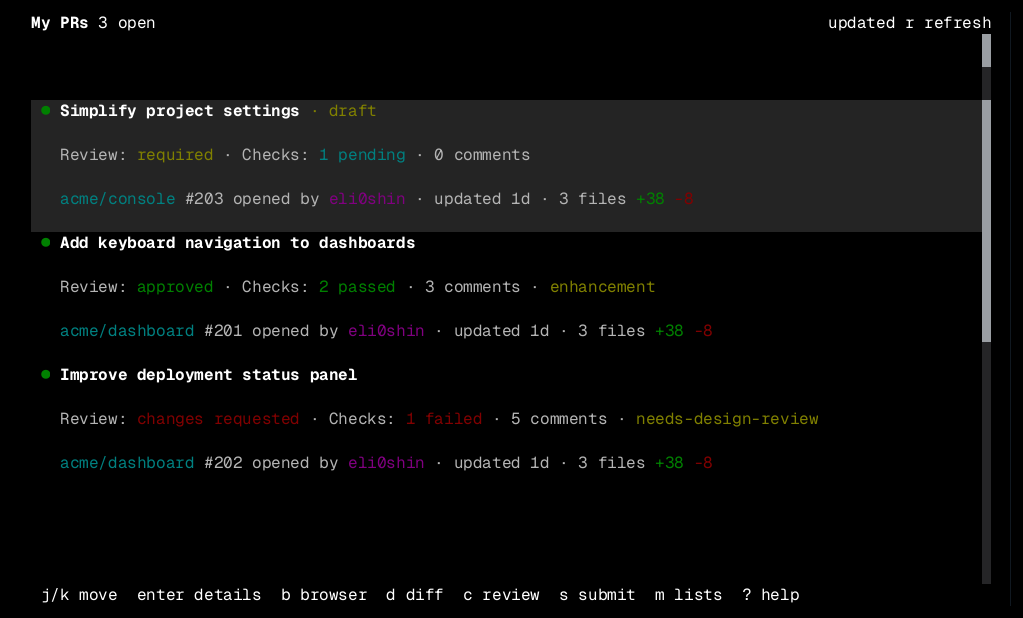
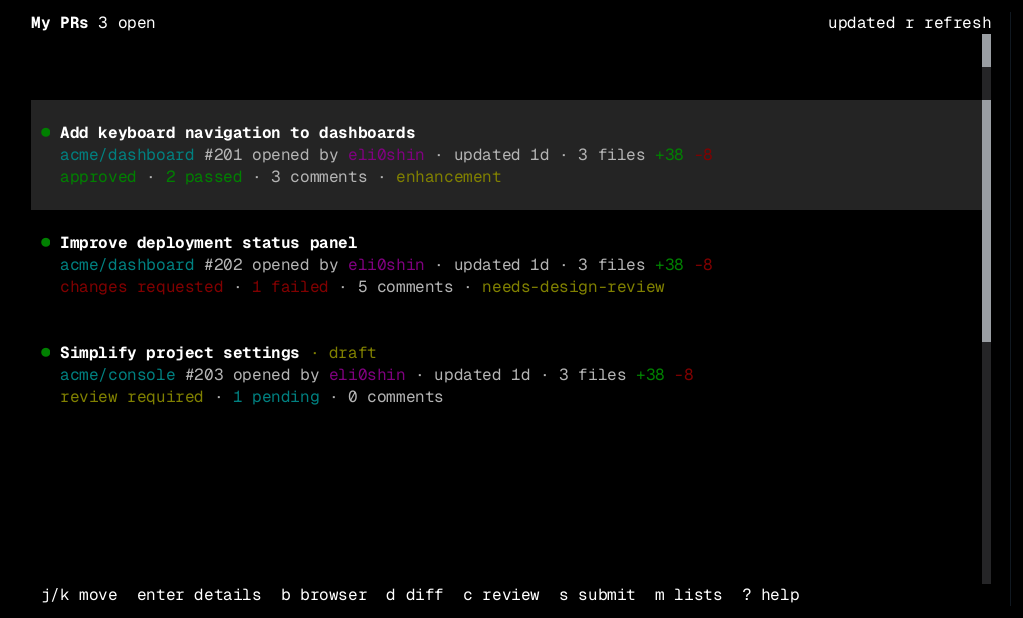
Tighten PR row spacing and show concise status

diff --git a/src/app.tsx b/src/app.tsx
@@ -625,22 +625,24 @@ function ReviewQueueContent({
     () =>
       queue.map((pullRequest) => {
         const width = terminal.width - 6;
-        const metadataHeight = Math.max(
-          1,
-          renderedRows(rowMetadataText(pullRequest), width) + 1
+        const titleHeight = charWrappedRows(
+          `● ${pullRequest.title}${list === 'authored' && pullRequest.isDraft ? ' · draft' : ''}`,
+          width
         );
-        const statusHeight = Math.max(
-          1,
-          renderedRows(rowStatusText(pullRequest), width) + 1
+        const statusHeight = charWrappedRows(rowStatusText(pullRequest), width);
+        const metadataHeight = charWrappedRows(
+          rowMetadataText(pullRequest),
+          width
         );
         return {
           pullRequest,
-          metadataHeight,
+          titleHeight,
           statusHeight,
-          height: 2 + statusHeight + metadataHeight,
+          metadataHeight,
+          height: 2 + titleHeight + statusHeight + metadataHeight,
         };
       }),
-    [queue, terminal.width]
+    [queue, list, terminal.width]
   );
   const keepCursorVisible = useCallback(
     (viewport: ScrollBoxRenderable | null = queueViewportRef.current) => {
@@ -744,13 +746,17 @@ function ReviewQueueContent({
         contentOptions={{ flexDirection: 'column' }}
       >
         {rows.map(
-          ({ pullRequest, height, metadataHeight, statusHeight }, index) => (
+          (
+            { pullRequest, height, titleHeight, metadataHeight, statusHeight },
+            index
+          ) => (
             <ReviewQueueRow
               key={pullRequest.url}
               id={`review-queue-row-${index}`}
               pullRequest={pullRequest}
               list={list}
               rowHeight={height}
+              titleHeight={titleHeight}
               metadataHeight={metadataHeight}
               statusHeight={statusHeight}
               underCursor={index === cursorPosition}
@@ -772,6 +778,7 @@ function ReviewQueueRow({
   pullRequest,
   list,
   rowHeight,
+  titleHeight,
   metadataHeight,
   statusHeight,
   underCursor,
@@ -781,6 +788,7 @@ function ReviewQueueRow({
   readonly pullRequest: PullRequestSummary;
   readonly list: PullRequestList;
   readonly rowHeight: number;
+  readonly titleHeight: number;
   readonly metadataHeight: number;
   readonly statusHeight: number;
   readonly underCursor: boolean;
@@ -795,36 +803,29 @@ function ReviewQueueRow({
       height={rowHeight}
       paddingLeft={1}
       paddingRight={1}
+      paddingTop={1}
+      paddingBottom={1}
       flexDirection="column"
-      justifyContent="center"
       backgroundColor={underCursor ? theme?.subtleSurface : undefined}
     >
-      <text height={2} flexShrink={0} overflow="hidden">
+      <text
+        height={titleHeight}
+        flexShrink={0}
+        wrapMode="char"
+        overflow="hidden"
+      >
         <span fg={theme?.success}>● </span>
         <strong>{pullRequest.title}</strong>
         {list === 'authored' && pullRequest.isDraft ? (
           <span fg={theme?.warning}> · draft</span>
         ) : null}
       </text>
-      <text height={statusHeight} flexShrink={0} overflow="hidden">
-        {'  '}
-        <span fg={theme?.textMuted}>Review: </span>
-        <span fg={reviewStateColor(decision || 'none', theme)}>
-          {reviewDecisionLabel(decision)}
-        </span>
-        <span fg={theme?.textMuted}> · Checks: </span>
-        <span fg={theme?.[checks.tone]}>{checks.label}</span>
-        <span fg={theme?.textMuted}>
-          {' '}
-          · {pullRequest.commentsCount}{' '}
-          {pullRequest.commentsCount === 1 ? 'comment' : 'comments'}
-          {pullRequest.labels.length === 0 ? '' : ' · '}
-        </span>
-        {pullRequest.labels.length === 0 ? null : (
-          <span fg={theme?.warning}>{pullRequest.labels.join('  ')}</span>
-        )}
-      </text>
-      <text height={metadataHeight} flexShrink={0} overflow="hidden">
+      <text
+        height={metadataHeight}
+        flexShrink={0}
+        wrapMode="char"
+        overflow="hidden"
+      >
         {'  '}
         <span fg={theme?.info}>{pullRequest.repository}</span>
         <span fg={theme?.textMuted}> #{pullRequest.number} opened by </span>
@@ -836,6 +837,28 @@ function ReviewQueueRow({
         </span>
         <span fg={theme?.success}>+{pullRequest.additions}</span>{' '}
         <span fg={theme?.error}>-{pullRequest.deletions}</span>
+      </text>
+      <text
+        height={statusHeight}
+        flexShrink={0}
+        wrapMode="char"
+        overflow="hidden"
+      >
+        {'  '}
+        <span fg={reviewStateColor(decision || 'none', theme)}>
+          {reviewDecisionLabel(decision)}
+        </span>
+        <span fg={theme?.textMuted}> · </span>
+        <span fg={theme?.[checks.tone]}>{checks.label}</span>
+        <span fg={theme?.textMuted}>
+          {' '}
+          · {pullRequest.commentsCount}{' '}
+          {pullRequest.commentsCount === 1 ? 'comment' : 'comments'}
+          {pullRequest.labels.length === 0 ? '' : ' · '}
+        </span>
+        {pullRequest.labels.length === 0 ? null : (
+          <span fg={theme?.warning}>{pullRequest.labels.join('  ')}</span>
+        )}
       </text>
     </box>
   );
@@ -1767,6 +1790,25 @@ function herdrFailureMessage(failure: HerdrFailure): string {
   return message;
 }
 
+const graphemes = new Intl.Segmenter(undefined, { granularity: 'grapheme' });
+
+function charWrappedRows(message: string, renderedWidth: number): number {
+  const width = Math.max(renderedWidth, 1);
+  return message.split('\n').reduce((total, line) => {
+    let rows = 1;
+    let column = 0;
+    for (const { segment } of graphemes.segment(line)) {
+      const glyphWidth = Bun.stringWidth(segment === '\t' ? '  ' : segment);
+      if (column > 0 && column + glyphWidth > width) {
+        rows += 1;
+        column = 0;
+      }
+      column += glyphWidth;
+    }
+    return total + rows;
+  }, 0);
+}
+
 function renderedRows(message: string, renderedWidth: number): number {
   const width = Math.max(renderedWidth, 1);
   return message.split('\n').reduce((total, line) => {
@@ -1868,7 +1910,7 @@ function failureMessageLines(
 }
 
 function reviewDecisionLabel(decision: string | undefined): string {
-  if (decision === 'REVIEW_REQUIRED') return 'required';
+  if (decision === 'REVIEW_REQUIRED') return 'review required';
   if (decision === 'CHANGES_REQUESTED') return 'changes requested';
   if (decision === 'APPROVED') return 'approved';
   return decision || 'none';
@@ -1879,7 +1921,7 @@ function checkSummary(checks: PullRequestSummary['checks']): {
   readonly tone: 'error' | 'info' | 'success' | 'textMuted';
 } {
   if (checks === undefined || checks.length === 0) {
-    return { label: 'none', tone: 'textMuted' };
+    return { label: 'no checks', tone: 'textMuted' };
   }
   const failedStates = new Set([
     'FAILURE',
@@ -1903,7 +1945,7 @@ function checkSummary(checks: PullRequestSummary['checks']): {
 
 function rowStatusText(pullRequest: PullRequestSummary): string {
   const comments = `${pullRequest.commentsCount} ${pullRequest.commentsCount === 1 ? 'comment' : 'comments'}`;
-  return `  Review: ${reviewDecisionLabel(pullRequest.reviewDecision)} · Checks: ${checkSummary(pullRequest.checks).label} · ${comments}${pullRequest.labels.length === 0 ? '' : ` · ${pullRequest.labels.join('  ')}`}`;
+  return `  ${reviewDecisionLabel(pullRequest.reviewDecision)} · ${checkSummary(pullRequest.checks).label} · ${comments}${pullRequest.labels.length === 0 ? '' : ` · ${pullRequest.labels.join('  ')}`}`;
 }
 
 function rowMetadataText(pullRequest: PullRequestSummary): string {

diff --git a/tests/app.test.tsx b/tests/app.test.tsx
@@ -283,6 +283,46 @@ function firstDescriptionLine(frame: string): number {
 }
 
 describe('Review Queue list switching', () => {
+  test('puts one highlighted padding line above adjacent title, metadata, and status lines', async () => {
+    const request = {
+      ...pullRequest,
+      reviewDecision: 'REVIEW_REQUIRED',
+      checks: [{ name: 'build', state: 'SUCCESS' }],
+    };
+    const github = {
+      async loadReviewQueue() {
+        return success([request]);
+      },
+      async loadPullRequestDetails() {
+        return detailSources(pullRequestDetails('Details'));
+      },
+      async submitReview() {
+        throw new Error('No submission expected');
+      },
+    } satisfies GitHub;
+    const view = await testRender(reviewQueuePage(github), {
+      width: 100,
+      height: 24,
+    });
+    const frame = await view.waitForFrame((output) =>
+      output.includes('review required · 1 passed')
+    );
+    const lines = frame.split('\n');
+    const title = lines.findIndex((line) => line.includes('Improve widgets'));
+    const status = lines.findIndex((line) => line.includes('review required'));
+    const metadata = lines.findIndex((line) =>
+      line.includes('acme/widgets #7')
+    );
+    expect(title).toBeGreaterThan(0);
+    expect(metadata).toBe(title + 1);
+    expect(status).toBe(metadata + 1);
+    const spans = view.captureSpans();
+    const highlighted = spanContaining(spans, 'Improve widgets').bg;
+    expect(
+      spans.lines[title - 1]?.spans.some((span) => span.bg.equals(highlighted))
+    ).toBe(true);
+    view.renderer.destroy();
+  });
   test('switches between independent search results, resets the Cursor, and refreshes the active list', async () => {
     const loadReviewQueue = jest.fn(
       async (_signal: AbortSignal, list = 'reviewQueue') =>
@@ -333,10 +373,10 @@ describe('Review Queue list switching', () => {
     );
     expect(authoredFrame).toContain('Add more widgets · draft');
     expect(authoredFrame).toContain(
-      'Review: changes requested · Checks: 1 failed · 3 comments · review'
+      'changes requested · 1 failed · 3 comments · review'
     );
-    expect(authoredFrame.indexOf('Review: changes requested')).toBeLessThan(
-      authoredFrame.indexOf('acme/widgets #8')
+    expect(authoredFrame.indexOf('acme/widgets #8')).toBeLessThan(
+      authoredFrame.indexOf('changes requested')
     );
     expect(authoredFrame).not.toContain('Review another PR');
     expect(authoredFrame).not.toContain('Improve widgets');
@@ -352,16 +392,75 @@ describe('Review Queue list switching', () => {
       frame.includes('Review requests 2 open')
     );
     expect(queueFrame).toContain(
-      'Review: required · Checks: 1 passed · 3 comments · review'
+      'review required · 1 passed · 3 comments · review'
     );
-    expect(queueFrame.indexOf('Review: required')).toBeLessThan(
-      queueFrame.indexOf('acme/widgets #7')
+    expect(queueFrame.indexOf('acme/widgets #7')).toBeLessThan(
+      queueFrame.indexOf('review required')
     );
     await act(async () => view.mockInput.pressKey('b'));
     expect(openPullRequestInBrowser).toHaveBeenLastCalledWith(
       pullRequest.url,
       expect.any(AbortSignal)
     );
+    view.renderer.destroy();
+  });
+
+  test('keeps all wrapped metadata visible in a narrow pane', async () => {
+    const github = {
+      async loadReviewQueue() {
+        return success([
+          { ...pullRequest, reviewDecision: 'REVIEW_REQUIRED', checks: [] },
+        ]);
+      },
+      async loadPullRequestDetails() {
+        return detailSources(pullRequestDetails('Details'));
+      },
+      async submitReview() {
+        throw new Error('No submission expected');
+      },
+    } satisfies GitHub;
+    const view = await testRender(reviewQueuePage(github), {
+      width: 30,
+      height: 40,
+    });
+    const frame = await view.waitForFrame((output) =>
+      output.includes('review required')
+    );
+    expect(frame).toContain('Improve widgets');
+    expect(frame).toContain('+10');
+    expect(frame).toContain('-2');
+    view.renderer.destroy();
+  });
+
+  test('keeps a double-width label visible at the wrap boundary', async () => {
+    const label = `xx界${'z'.repeat(23)}`;
+    const github = {
+      async loadReviewQueue() {
+        return success([
+          {
+            ...pullRequest,
+            reviewDecision: 'REVIEW_REQUIRED',
+            checks: [],
+            labels: [label],
+          },
+        ]);
+      },
+      async loadPullRequestDetails() {
+        return detailSources(pullRequestDetails('Details'));
+      },
+      async submitReview() {
+        throw new Error('No submission expected');
+      },
+    } satisfies GitHub;
+    const view = await testRender(reviewQueuePage(github), {
+      width: 30,
+      height: 40,
+    });
+    const frame = await view.waitForFrame((output) =>
+      output.includes('review required')
+    );
+    expect(frame).toContain('界');
+    expect((frame.match(/z/g) ?? []).length).toBe(23);
     view.renderer.destroy();
   });
 
@@ -397,13 +496,12 @@ describe('Review Queue list switching', () => {
     const frame = await view.waitForFrame((output) =>
       output.includes('My PRs 1 open')
     );
-    expect(frame).toContain('A title that wraps across two visible');
-    expect(frame).toContain('lines');
+    expect(frame).toContain('A title that wraps across two visible line');
+    expect(frame).toMatch(/\n   s\s/);
     expect(frame.indexOf('lines')).toBeLessThan(frame.indexOf('acme/widgets'));
     expect(frame).toContain('3 comments');
     expect(frame).toContain('review');
-    expect(frame).toContain('Review: changes requested');
-    expect(frame).toContain('Checks:');
+    expect(frame).toContain('changes requested');
     expect(frame).toContain('failed');
     view.renderer.destroy();
   });
@@ -430,7 +528,7 @@ describe('Review Queue list switching', () => {
       height: 24,
     });
     const wideFrame = await wide.waitForFrame((frame) =>
-      frame.includes('Review: required')
+      frame.includes('review required')
     );
     expect(wideFrame).toContain('needs-design-review');
     wide.renderer.destroy();

diff --git a/README.md b/README.md
@@ -83,7 +83,7 @@ See the [configuration contract](docs/configuration-contract.md) for all accepte
 | `?`          | Show the effective Review Queue keys.                 |
 | `q`/`escape` | Quit.                                                 |
 
-Both lists show each pull request's review decision, check status, comment count, and labels together below its title. My PRs also marks drafts. Pull request details include reviewers, checks, the rendered Markdown description, and the complete review conversation. Descriptions, issue comments, submitted review bodies, and inline review comment bodies use OpenTUI's Markdown renderer. Metadata and inline code context stay ordinary text. Drag across text to copy the selection to the clipboard. Use the configured previous/next keys to scroll by one line, `Ctrl+U`/`Ctrl+D` to move by half a page, `g`/`Home` and `Shift+G`/`End` to move to the start and end, `r` to refresh, `e` to show complete source diagnostics, and `q`/`Escape` to return to the unchanged list.
+Each row shows the title, then repository and change details, then the review decision, check status, comment count, and labels. My PRs also marks drafts. Pull request details include reviewers, checks, the rendered Markdown description, and the complete review conversation. Descriptions, issue comments, submitted review bodies, and inline review comment bodies use OpenTUI's Markdown renderer. Metadata and inline code context stay ordinary text. Drag across text to copy the selection to the clipboard. Use the configured previous/next keys to scroll by one line, `Ctrl+U`/`Ctrl+D` to move by half a page, `g`/`Home` and `Shift+G`/`End` to move to the start and end, `r` to refresh, `e` to show complete source diagnostics, and `q`/`Escape` to return to the unchanged list.
 
 When you send comments from Lumen, Review saves Lumen's exact stdout at `/tmp/review/lumen/<org>/<repo>/<number>.txt`. A successful nonempty send replaces the prior file. Leaving Lumen without a send, or a failed Lumen run, keeps the prior file unchanged. The Review Command is a separate interaction and does not receive these comments.
 
